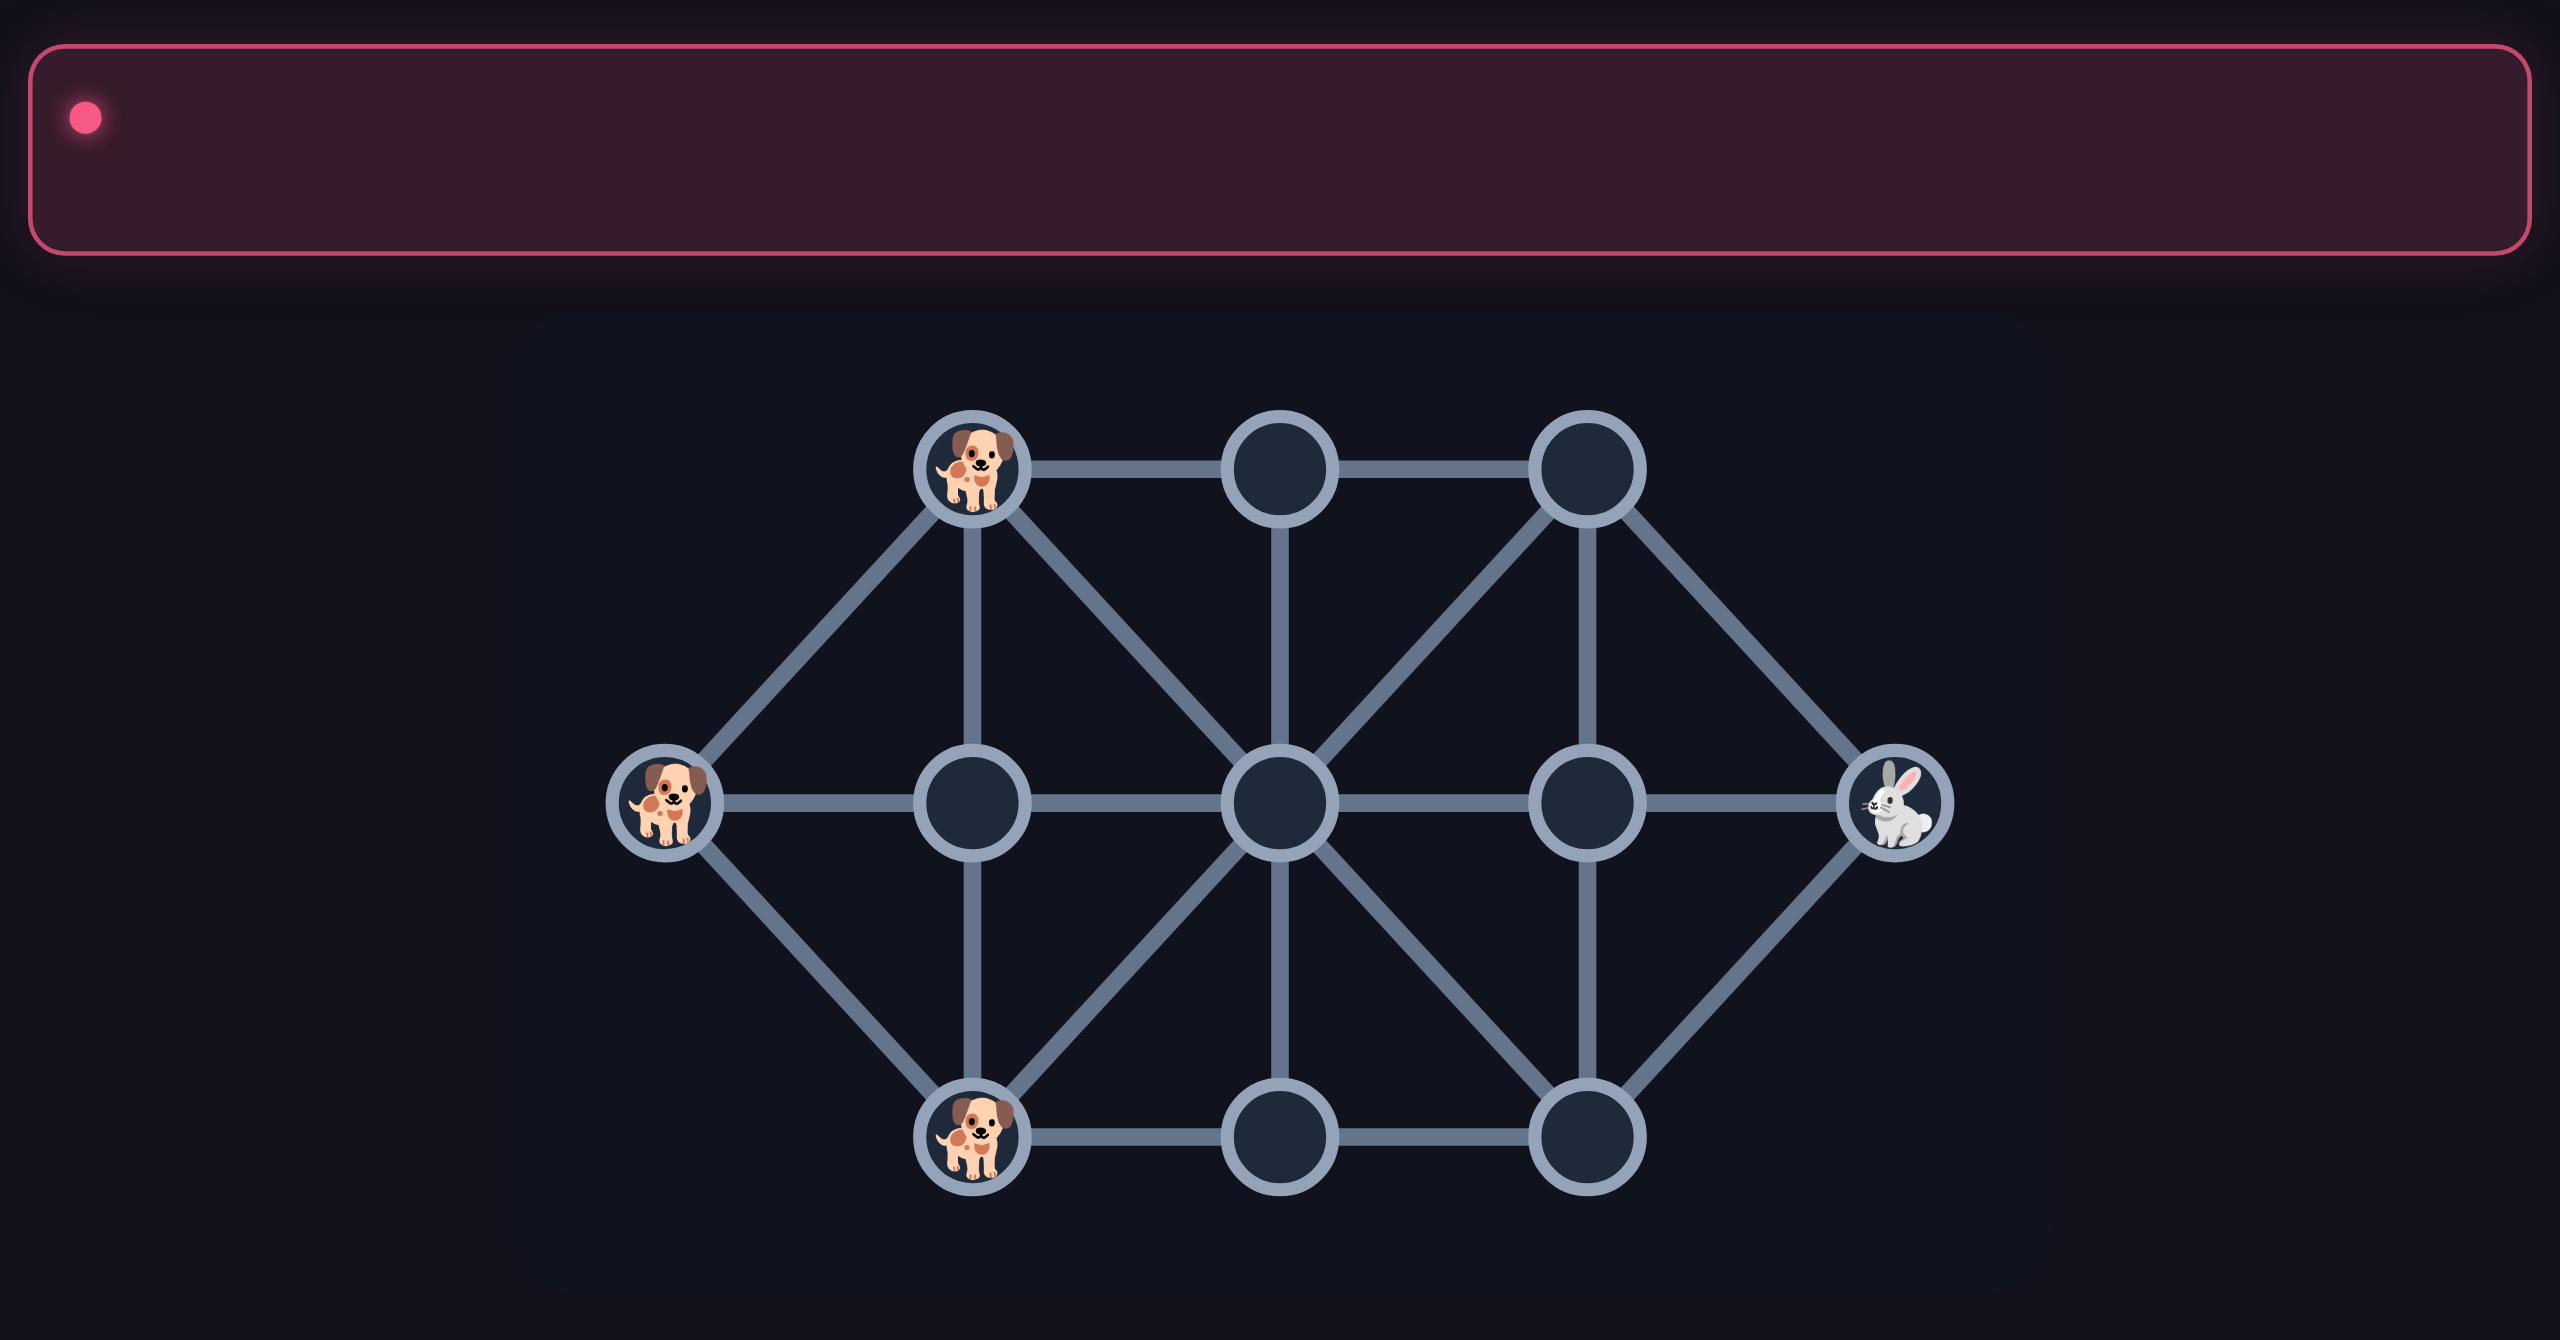
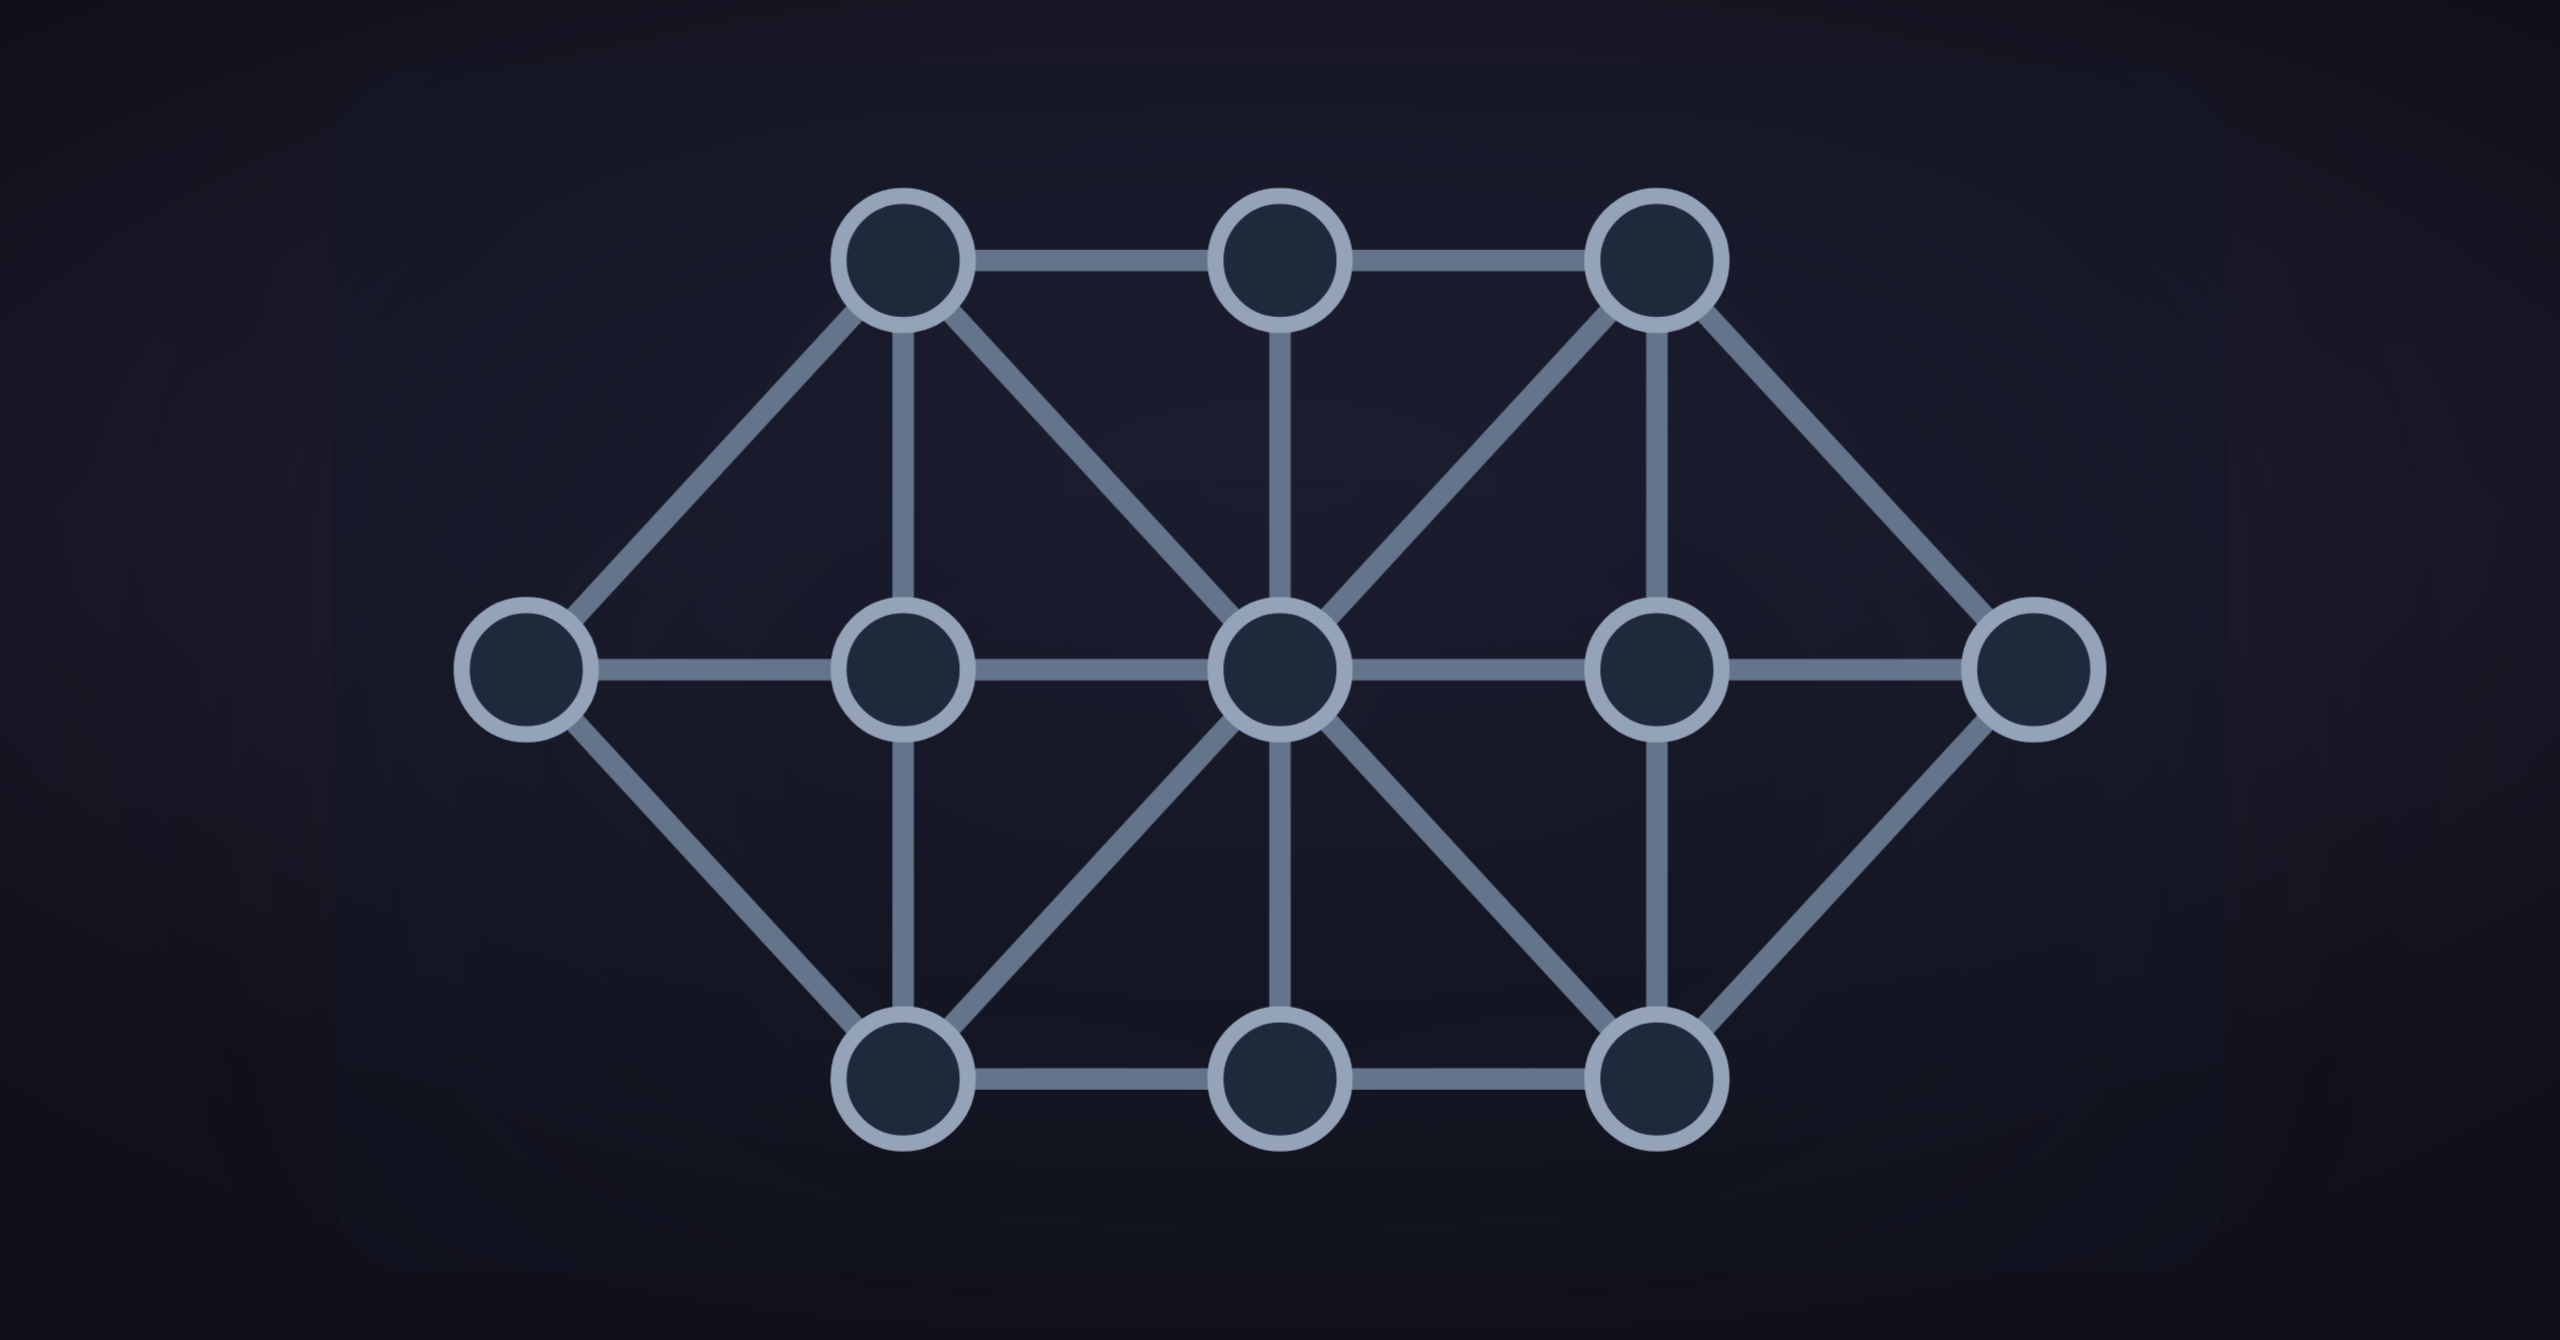
docs: noteアイキャッチをミニマルな盤面＋グラデーションに調整

Changed region(s): [[0.0, 0.0306, 1.0, 0.8873], [0.6875, 0.2754, 0.7188, 0.3366], [0.2812, 0.2754, 0.3125, 0.3366]]

diff --git a/docs/note/eyecatch/README.md b/docs/note/eyecatch/README.md
@@ -12,10 +12,10 @@
 
 ## 仕様
 
-- サイズ: **1280×670**（note の見出し画像向け・ビューポートそのまま）
-- 内容: **プレイ画面の盤面**を画面いっぱいに拡大してキャプチャ（見出し用の文字オーバーレイなし）
-- UI: ヘッダー・手番バナー・盤下ボタンは非表示。マンカラの石数・ゴールラベルも非表示（盤の色だけ）
-- 背景: サイトのダークテーマ色（`#12101a`）
+- サイズ: **1280×670**（note の見出し画像向け）
+- 内容: **実装済みの盤面 UI**のみをキャプチャ（宣伝用の文字・別途イラストは付けない）
+- トーン: サイトのダーク色（`#12101a` / `#1c1826`）＋ゲームごとの淡いアクセント光、盤にソフトシャドウ
+- UI: ヘッダー・手番バナー・盤下ボタンは非表示。マンカラの数字ラベルも非表示（色面のみ）。ウサギと猟犬は絵文字を出さず線と点のみ
 
 ## 再生成手順
 
